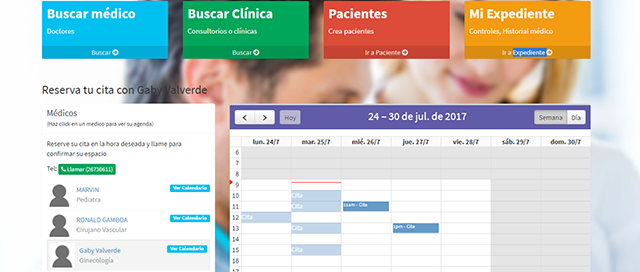
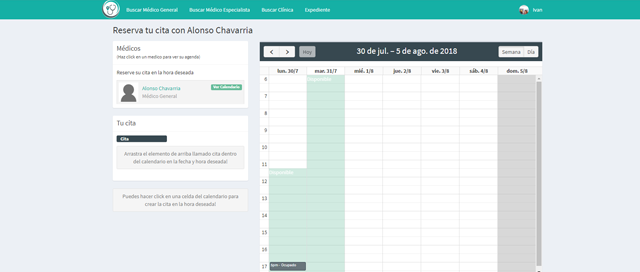
se cambio coolores y imagenes a nuevo estilo

diff --git a/wp-content/themes/gpsmedica/style.css b/wp-content/themes/gpsmedica/style.css
@@ -1,4 +1,4 @@
-article,aside,details,figcaption,figure,footer,header,hgroup,main,nav,section,summary{display:block}audio,canvas,video{display:inline-block}audio:not([controls]){display:none;height:0}[hidden]{display:none}html{font-size:100%;-ms-text-size-adjust:100%;-webkit-text-size-adjust:100%}button,html,input,select,textarea{font-family:sans-serif}body{margin:0}a:focus{outline:thin dotted}a:active,a:hover{outline:0}h1{font-size:2em;margin:.67em 0}h2{font-size:1.5em;margin:.83em 0}h3{font-size:1.17em;margin:1em 0}h4{font-size:1em;margin:1.33em 0}h5{font-size:.83em;margin:1.67em 0}h6{font-size:.67em;margin:2.33em 0}abbr[title]{border-bottom:1px dotted}b,strong{font-weight:700}blockquote{margin:1em 40px}dfn{font-style:italic}hr{-moz-box-sizing:content-box;box-sizing:content-box;height:0}mark{background:#ff0;color:#000}p,pre{margin:1em 0}code,kbd,pre,samp{font-family:monospace,serif;font-size:1em}pre{white-space:pre;white-space:pre-wrap;word-wrap:break-word}q{quotes:none}q:after,q:before{content:'';content:none}small{font-size:80%}sub,sup{font-size:75%;line-height:0;position:relative;vertical-align:baseline}sup{top:-.5em}sub{bottom:-.25em}dl,menu,ol,ul{margin:1em 0}dd{margin:0 0 0 40px}menu,ol,ul{padding:0 0 0 40px}nav ol,nav ul{list-style:none;list-style-image:none}img{border:0;-ms-interpolation-mode:bicubic}svg:not(:root){overflow:hidden}figure{margin:0}form{margin:0}fieldset{border:1px solid silver;margin:0 2px;padding:.35em .625em .75em}legend{border:0;padding:0;white-space:normal}button,input,select,textarea{font-size:100%;margin:0;vertical-align:baseline}button,input{line-height:normal}button,select{text-transform:none}button,html input[type=button],input[type=reset],input[type=submit]{-webkit-appearance:button;cursor:pointer}button[disabled],html input[disabled]{cursor:default}input[type=checkbox],input[type=radio]{box-sizing:border-box;padding:0}input[type=search]{-webkit-appearance:textfield;-moz-box-sizing:content-box;-webkit-box-sizing:content-box;box-sizing:content-box}input[type=search]::-webkit-search-cancel-button,input[type=search]::-webkit-search-decoration{-webkit-appearance:none}button::-moz-focus-inner,input::-moz-focus-inner{border:0;padding:0}textarea{overflow:auto;vertical-align:top}table{border-collapse:collapse;border-spacing:0}article,aside,details,figcaption,figure,footer,header,hgroup,main,nav,section,summary{display:block}audio,canvas,video{display:inline-block}audio:not([controls]){display:none;height:0}[hidden]{display:none}html{font-size:100%;-ms-text-size-adjust:100%;-webkit-text-size-adjust:100%}button,html,input,select,textarea{font-family:sans-serif}body{margin:0}a:focus{outline:thin dotted}a:active,a:hover{outline:0}h1{font-size:2em;margin:.67em 0}h2{font-size:1.5em;margin:.83em 0}h3{font-size:1.17em;margin:1em 0}h4{font-size:1em;margin:1.33em 0}h5{font-size:.83em;margin:1.67em 0}h6{font-size:.67em;margin:2.33em 0}abbr[title]{border-bottom:1px dotted}b,strong{font-weight:700}blockquote{margin:1em 40px}dfn{font-style:italic}hr{-moz-box-sizing:content-box;-webkit-box-sizing:content-box;-moz-box-sizing:content-box;box-sizing:content-box;height:0}mark{background:#ff0;color:#000}p,pre{margin:1em 0}code,kbd,pre,samp{font-family:monospace,serif;font-size:1em}pre{white-space:pre;white-space:pre-wrap;word-wrap:break-word}q{quotes:none}q:after,q:before{content:'';content:none}small{font-size:80%}sub,sup{font-size:75%;line-height:0;position:relative;vertical-align:baseline}sup{top:-.5em}sub{bottom:-.25em}dl,menu,ol,ul{margin:1em 0}dd{margin:0 0 0 40px}menu,ol,ul{padding:0 0 0 40px}nav ol,nav ul{list-style:none;list-style-image:none}img{border:0;-ms-interpolation-mode:bicubic}svg:not(:root){overflow:hidden}figure{margin:0}form{margin:0}fieldset{border:1px solid silver;margin:0 2px;padding:.35em .625em .75em}legend{border:0;padding:0;white-space:normal}button,input,select,textarea{font-size:100%;margin:0;vertical-align:baseline}button,input{line-height:normal}button,select{text-transform:none}button,html input[type=button],input[type=reset],input[type=submit]{-webkit-appearance:button;cursor:pointer}button[disabled],html input[disabled]{cursor:default}input[type=checkbox],input[type=radio]{-webkit-box-sizing:border-box;-moz-box-sizing:border-box;box-sizing:border-box;padding:0}input[type=search]{-webkit-appearance:textfield;-moz-box-sizing:content-box;-webkit-box-sizing:content-box;-webkit-box-sizing:content-box;-moz-box-sizing:content-box;box-sizing:content-box}input[type=search]::-webkit-search-cancel-button,input[type=search]::-webkit-search-decoration{-webkit-appearance:none}button::-moz-focus-inner,input::-moz-focus-inner{border:0;padding:0}textarea{overflow:auto;vertical-align:top}table{border-collapse:collapse;border-spacing:0}@font-face{font-family:av;src:url(fonts/av.eot?-pmmwod);src:url(fonts/av.eot?#iefix-pmmwod) format('embedded-opentype'),url(fonts/av.ttf?-pmmwod) format('truetype'),url(fonts/av.woff?-pmmwod) format('woff'),url(fonts/av.svg?-pmmwod#av) format('svg');font-weight:400;font-style:normal}[class*=" icon-"],[class^=icon-]{font-family:av;speak:none;font-style:normal;font-weight:400;font-variant:normal;text-transform:none;line-height:1;-webkit-font-smoothing:antialiased;-moz-osx-font-smoothing:grayscale}.icon-avotz:before{content:"\e600"}.icon-twitter:before{content:"\f099"}.icon-facebook:before{content:"\f09a"}.icon-facebook-f:before{content:"\f09a"}.icon-bars:before{content:"\f0c9"}.icon-navicon:before{content:"\f0c9"}.icon-reorder:before{content:"\f0c9"}.icon-menu:before{content:"\f0c9"}.icon-google-plus:before{content:"\f0d5"}.icon-angle-left:before{content:"\f104"}.icon-angle-right:before{content:"\f105"}.icon-angle-up:before{content:"\f106"}.icon-angle-down:before{content:"\f107"}.icon-youtube:before{content:"\f167"}.icon-instagram:before{content:"\f16d"}.icon-pinterest-p:before{content:"\f231"}*{-webkit-box-sizing:border-box;-moz-box-sizing:border-box;box-sizing:border-box}:after,:before{-webkit-box-sizing:border-box;-moz-box-sizing:border-box;box-sizing:border-box}body{font-family:Lato,serif;font-size:100%;line-height:30px;background:#fff;color:#000}ul{margin:0;padding:0}a{text-decoration:none;-webkit-transition:all .5s ease;-moz-transition:all .5s ease;-o-transition:all .5s ease;-ms-transition:all .5s ease;transition:all .5s ease;color:#3c8dbc}h1,h2,h3,h4,h5{margin-top:0;font-weight:900}h1{line-height:45px}img{max-width:100%;height:auto}input[type=email],input[type=number],input[type=text],select,textarea{width:100%;height:32px}textarea{height:90px}.select2-container--default .select2-selection--multiple,.select2-container--default .select2-selection--single{border-radius:0!important;min-height:36px!important}.select2-container{width:100%!important}.select2-container--default .select2-selection--multiple .select2-selection__choice{margin-top:1px!important;background-color:verde2!important;color:#fff}.txt-center{text-align:center}.hidden{display:none}.no-padding{padding-left:0!important;padding-right:0!important}.btn,.wpcf7-submit{padding:.5rem .8rem;display:inline-block;color:#fff;-webkit-transition:all .5s ease;-moz-transition:all .5s ease;-o-transition:all .5s ease;-ms-transition:all .5s ease;transition:all .5s ease;background-color:#3c8dbc}.btn:hover,.wpcf7-submit:hover{background-color:#f90;color:#fff}.wpcf7-submit{border:none;background-color:#92bf4f}.wpcf7-submit:hover{background-color:verde2;color:#fff}.inner{max-width:990px;margin:0 auto;position:relative;padding-left:2rem;padding-right:2rem}.header{position:relative;background-color:#3c8dbc;padding:0 20px;height:98px;width:100%;border-bottom:1px solid #d9d9d9;border-color:rgba(0,0,0,.09);z-index:999}.header-logo{display:inline-block;width:100px}.header-menu{display:none;position:absolute;top:97px;left:0;right:0;background-color:#3c8dbc;text-align:center}.header-menu li{display:block}.header-menu a{display:block;color:rgba(255,255,255,.9);padding:1rem;text-transform:uppercase}.header-menu #menu-item-10 a{border:2px solid #fff}.header-btn-menu{position:absolute;right:1rem;background-color:transparent;border:none;color:#fff;font-size:2rem;top:20px;outline:0}@media screen and (min-width:768px){.header-btn-menu{display:none}.header-menu{display:block!important;float:right;position:static;background-color:transparent;text-align:left;margin-top:1.5rem}.header-menu ul{display:-webkit-box;display:-moz-box;display:-webkit-flex;display:-ms-flexbox;display:box;display:flex;-webkit-box-lines:multiple;-moz-box-lines:multiple;-o-box-lines:multiple;-webkit-flex-wrap:wrap;-ms-flex-wrap:wrap;flex-wrap:wrap;-webkit-box-pack:justify;-moz-box-pack:justify;-o-box-pack:justify;-ms-flex-pack:justify;-webkit-justify-content:space-between;justify-content:space-between}.header-menu li{position:relative}.header-menu a{display:block;padding:.5rem .8rem}.header-menu a:hover{color:#fff}.header-menu .sub-menu{display:none;position:absolute;background-color:#0e395b}.header-menu .sub-menu li{border-bottom:1px solid #c3c3c3;width:100%}.header-menu .sub-menu a{display:block}}.banner{width:100%;height:35vh;position:relative;background-color:#fff}.banner-functions{display:-webkit-box;display:-moz-box;display:-webkit-flex;display:-ms-flexbox;display:box;display:flex;-webkit-box-lines:multiple;-moz-box-lines:multiple;-o-box-lines:multiple;-webkit-flex-wrap:wrap;-ms-flex-wrap:wrap;flex-wrap:wrap;-webkit-box-pack:distribute;-moz-box-pack:distribute;-o-box-pack:distribute;-ms-flex-pack:distribute;-webkit-justify-content:space-around;justify-content:space-around;position:absolute;z-index:22;bottom:0;left:0;right:0;display:none}.banner-functions-item{width:200px;height:170px;text-align:center;overflow:hidden}.banner-functions-item:focus{outline:0}.banner-functions-item:hover span{background-color:#f90}.banner-functions-item:hover .banner-functions-item-img{-webkit-transform:translate(0,0);-moz-transform:translate(0,0);-o-transform:translate(0,0);-ms-transform:translate(0,0);transform:translate(0,0)}.banner-functions-item-img{-webkit-background-size:cover;-moz-background-size:cover;background-size:cover;background-repeat:no-repeat;background-position:center center;height:140px;-webkit-transform:translate(0,125%);-moz-transform:translate(0,125%);-o-transform:translate(0,125%);-ms-transform:translate(0,125%);transform:translate(0,125%);-webkit-transition:all .5s ease;-moz-transition:all .5s ease;-o-transition:all .5s ease;-ms-transition:all .5s ease;transition:all .5s ease}.banner-functions-item span{display:block;background-color:#3c8dbc;color:#fff}.banner .item{-webkit-background-size:cover;-moz-background-size:cover;background-size:cover;background-repeat:no-repeat;background-position:center center;height:35vh;width:100%}.banner .item:before{content:'';background:rgba(0,0,0,.1);position:absolute;left:0;right:0;top:0;bottom:0;width:100%;height:100%}.banner .item a{position:absolute;top:0;bottom:0;right:0;left:0;display:block;width:100%;height:100%;z-index:22}.banner .item-info{position:absolute;padding:1rem;color:#fff;top:30%;left:50%;-webkit-transform:translate(-50%,-50%);-moz-transform:translate(-50%,-50%);-o-transform:translate(-50%,-50%);-ms-transform:translate(-50%,-50%);transform:translate(-50%,-50%);font-size:12px;text-align:center;width:100%}.banner .item-info h2{font-size:1.5rem;margin:24px 0;font-weight:900;text-transform:uppercase;line-height:1em;position:relative;text-shadow:1px 1px 2px rgba(0,0,0,.5)}.banner .item-info p{font-size:1rem;font-weight:500;font-style:italic;text-shadow:1px 1px 1px rgba(0,0,0,.5)}.banner img{display:block;width:100%}.banner .owl-dots{display:none;text-align:center;position:absolute;left:0;right:0;bottom:-40px;z-index:901}.banner .owl-dots .owl-dot{display:inline-block}.banner .owl-dots .owl-dot.active span{background-color:#3c8dbc}.banner .owl-dots .owl-dot span{width:10px;height:10px;margin:5px 7px;background:0 0;border:2px solid #3c8dbc;display:block;border-radius:30px}.banner .owl-next,.banner .owl-prev{display:none;position:absolute;top:50%;-webkit-transform:translate(0,-50%);-moz-transform:translate(0,-50%);-o-transform:translate(0,-50%);-ms-transform:translate(0,-50%);transform:translate(0,-50%);font-family:av!important;color:#3c8dbc;font-size:3rem;z-index:902}.banner .owl-prev{left:1rem}.banner .owl-prev:before{content:"\f104";opacity:1;-ms-filter:none;filter:none}.banner .owl-next{right:1rem}.banner .owl-next:before{content:"\f105";opacity:1;-ms-filter:none;filter:none}@media screen and (min-width:830px){.banner{height:75vh}.banner-functions{display:-webkit-box;display:-moz-box;display:-webkit-flex;display:-ms-flexbox;display:box;display:flex}.banner .item{height:75vh}.banner .item-info{display:block;top:30%;left:50%;padding-top:0;padding-left:0;width:70%;-webkit-transform:translate(-50%,-50%);-moz-transform:translate(-50%,-50%);-o-transform:translate(-50%,-50%);-ms-transform:translate(-50%,-50%);transform:translate(-50%,-50%);text-align:center;padding:1rem}.banner .item-info h2{font-size:5.5em;margin:25px 0}.banner .item-info p{font-size:1.5rem}.banner.banner-page{height:400px}.banner.banner-page .item{height:400px}.banner.banner-page .item-info{top:70%;left:auto;max-width:600px}.banner .owl-dots,.banner .owl-next,.banner .owl-prev{display:block}}@media screen and (min-width:1290px){.banner-functions-item{width:320px}}@media screen and (min-width:1400px){.banner{height:61vh}.banner .item{height:61vh}}.features{text-align:center;padding-bottom:4rem}.features h2{font-weight:400;text-transform:uppercase}.features-container{display:-webkit-box;display:-moz-box;display:-webkit-flex;display:-ms-flexbox;display:box;display:flex;-webkit-box-lines:multiple;-moz-box-lines:multiple;-o-box-lines:multiple;-webkit-flex-wrap:wrap;-ms-flex-wrap:wrap;flex-wrap:wrap;-webkit-box-pack:justify;-moz-box-pack:justify;-o-box-pack:justify;-ms-flex-pack:justify;-webkit-justify-content:space-between;justify-content:space-between;border-bottom:1px solid #c3c3c3;padding-bottom:3rem;padding-top:2rem}.features-item{width:100%;font-weight:300;margin-bottom:2rem}.features-item h3{font-weight:400;text-transform:uppercase;color:#f90}.features-item h3 a{color:#f90}@media screen and (min-width:768px){.features-item{width:32%}}.video{text-align:center;padding-top:3rem;padding-bottom:4rem}.video .vid-list{display:-webkit-box;display:-moz-box;display:-webkit-flex;display:-ms-flexbox;display:box;display:flex;-webkit-box-lines:multiple;-moz-box-lines:multiple;-o-box-lines:multiple;-webkit-flex-wrap:wrap;-ms-flex-wrap:wrap;flex-wrap:wrap;-webkit-box-pack:justify;-moz-box-pack:justify;-o-box-pack:justify;-ms-flex-pack:justify;-webkit-justify-content:space-between;justify-content:space-between;border-bottom:1px solid #c3c3c3;padding-bottom:4rem}.video .vid-list-item{width:45%;margin-bottom:1rem}.video .vid-list-item iframe{width:100%;height:150px}.video h2{font-weight:400;color:#f90;text-transform:uppercase;font-size:1.3rem}.video iframe{width:100%;height:250px}@media screen and (min-width:768px){.video iframe{height:500px}.video .vid-list-item{width:32%}}.getapp{padding-top:4rem;padding-bottom:0;font-weight:300}.getapp-container{display:-webkit-box;display:-moz-box;display:-webkit-flex;display:-ms-flexbox;display:box;display:flex;-webkit-box-lines:multiple;-moz-box-lines:multiple;-o-box-lines:multiple;-webkit-flex-wrap:wrap;-ms-flex-wrap:wrap;flex-wrap:wrap;-webkit-box-pack:justify;-moz-box-pack:justify;-o-box-pack:justify;-ms-flex-pack:justify;-webkit-justify-content:space-between;justify-content:space-between;border-bottom:1px solid #c3c3c3;padding-bottom:4rem}.getapp-container div{width:100%}.getapp-links a{display:inline-block;vertical-align:top;width:200px}@media screen and (min-width:768px){.getapp-container div{width:48%}}.contact{text-align:center;padding-top:4rem;padding-bottom:4rem}.social{text-align:center;padding-top:2rem;padding-bottom:2rem;background-color:#ccc}.social a{display:inline-block;font-size:1.2rem;color:#ccc;background-color:#000;padding:.5rem;border-radius:50%;line-height:1px;margin:0 .2rem}.social a:hover{background-color:#00d5d5;color:#fff}.social .facebook{padding:.5rem .7rem}.social .google{padding:.5rem .3rem}.social .youtube{padding:.5rem .5rem}.footer{background-color:#424242;text-align:center;padding-top:3rem;padding-bottom:4rem;color:#777}.footer-menu{padding-bottom:2rem}.footer-menu li{display:inline-block;vertical-align:top}.footer-menu a{color:#fff;padding:.5rem .8rem;text-transform:uppercase;font-size:13px}.content-area{margin:1rem 0}.entry-content ul li{margin-bottom:.5rem}
+article,aside,details,figcaption,figure,footer,header,hgroup,main,nav,section,summary{display:block}audio,canvas,video{display:inline-block}audio:not([controls]){display:none;height:0}[hidden]{display:none}html{font-size:100%;-ms-text-size-adjust:100%;-webkit-text-size-adjust:100%}button,html,input,select,textarea{font-family:sans-serif}body{margin:0}a:focus{outline:thin dotted}a:active,a:hover{outline:0}h1{font-size:2em;margin:.67em 0}h2{font-size:1.5em;margin:.83em 0}h3{font-size:1.17em;margin:1em 0}h4{font-size:1em;margin:1.33em 0}h5{font-size:.83em;margin:1.67em 0}h6{font-size:.67em;margin:2.33em 0}abbr[title]{border-bottom:1px dotted}b,strong{font-weight:700}blockquote{margin:1em 40px}dfn{font-style:italic}hr{-moz-box-sizing:content-box;box-sizing:content-box;height:0}mark{background:#ff0;color:#000}p,pre{margin:1em 0}code,kbd,pre,samp{font-family:monospace,serif;font-size:1em}pre{white-space:pre;white-space:pre-wrap;word-wrap:break-word}q{quotes:none}q:after,q:before{content:'';content:none}small{font-size:80%}sub,sup{font-size:75%;line-height:0;position:relative;vertical-align:baseline}sup{top:-.5em}sub{bottom:-.25em}dl,menu,ol,ul{margin:1em 0}dd{margin:0 0 0 40px}menu,ol,ul{padding:0 0 0 40px}nav ol,nav ul{list-style:none;list-style-image:none}img{border:0;-ms-interpolation-mode:bicubic}svg:not(:root){overflow:hidden}figure{margin:0}form{margin:0}fieldset{border:1px solid silver;margin:0 2px;padding:.35em .625em .75em}legend{border:0;padding:0;white-space:normal}button,input,select,textarea{font-size:100%;margin:0;vertical-align:baseline}button,input{line-height:normal}button,select{text-transform:none}button,html input[type=button],input[type=reset],input[type=submit]{-webkit-appearance:button;cursor:pointer}button[disabled],html input[disabled]{cursor:default}input[type=checkbox],input[type=radio]{box-sizing:border-box;padding:0}input[type=search]{-webkit-appearance:textfield;-moz-box-sizing:content-box;-webkit-box-sizing:content-box;box-sizing:content-box}input[type=search]::-webkit-search-cancel-button,input[type=search]::-webkit-search-decoration{-webkit-appearance:none}button::-moz-focus-inner,input::-moz-focus-inner{border:0;padding:0}textarea{overflow:auto;vertical-align:top}table{border-collapse:collapse;border-spacing:0}article,aside,details,figcaption,figure,footer,header,hgroup,main,nav,section,summary{display:block}audio,canvas,video{display:inline-block}audio:not([controls]){display:none;height:0}[hidden]{display:none}html{font-size:100%;-ms-text-size-adjust:100%;-webkit-text-size-adjust:100%}button,html,input,select,textarea{font-family:sans-serif}body{margin:0}a:focus{outline:thin dotted}a:active,a:hover{outline:0}h1{font-size:2em;margin:.67em 0}h2{font-size:1.5em;margin:.83em 0}h3{font-size:1.17em;margin:1em 0}h4{font-size:1em;margin:1.33em 0}h5{font-size:.83em;margin:1.67em 0}h6{font-size:.67em;margin:2.33em 0}abbr[title]{border-bottom:1px dotted}b,strong{font-weight:700}blockquote{margin:1em 40px}dfn{font-style:italic}hr{-moz-box-sizing:content-box;-webkit-box-sizing:content-box;-moz-box-sizing:content-box;box-sizing:content-box;height:0}mark{background:#ff0;color:#000}p,pre{margin:1em 0}code,kbd,pre,samp{font-family:monospace,serif;font-size:1em}pre{white-space:pre;white-space:pre-wrap;word-wrap:break-word}q{quotes:none}q:after,q:before{content:'';content:none}small{font-size:80%}sub,sup{font-size:75%;line-height:0;position:relative;vertical-align:baseline}sup{top:-.5em}sub{bottom:-.25em}dl,menu,ol,ul{margin:1em 0}dd{margin:0 0 0 40px}menu,ol,ul{padding:0 0 0 40px}nav ol,nav ul{list-style:none;list-style-image:none}img{border:0;-ms-interpolation-mode:bicubic}svg:not(:root){overflow:hidden}figure{margin:0}form{margin:0}fieldset{border:1px solid silver;margin:0 2px;padding:.35em .625em .75em}legend{border:0;padding:0;white-space:normal}button,input,select,textarea{font-size:100%;margin:0;vertical-align:baseline}button,input{line-height:normal}button,select{text-transform:none}button,html input[type=button],input[type=reset],input[type=submit]{-webkit-appearance:button;cursor:pointer}button[disabled],html input[disabled]{cursor:default}input[type=checkbox],input[type=radio]{-webkit-box-sizing:border-box;-moz-box-sizing:border-box;box-sizing:border-box;padding:0}input[type=search]{-webkit-appearance:textfield;-moz-box-sizing:content-box;-webkit-box-sizing:content-box;-webkit-box-sizing:content-box;-moz-box-sizing:content-box;box-sizing:content-box}input[type=search]::-webkit-search-cancel-button,input[type=search]::-webkit-search-decoration{-webkit-appearance:none}button::-moz-focus-inner,input::-moz-focus-inner{border:0;padding:0}textarea{overflow:auto;vertical-align:top}table{border-collapse:collapse;border-spacing:0}@font-face{font-family:av;src:url(fonts/av.eot?-pmmwod);src:url(fonts/av.eot?#iefix-pmmwod) format('embedded-opentype'),url(fonts/av.ttf?-pmmwod) format('truetype'),url(fonts/av.woff?-pmmwod) format('woff'),url(fonts/av.svg?-pmmwod#av) format('svg');font-weight:400;font-style:normal}[class*=" icon-"],[class^=icon-]{font-family:av;speak:none;font-style:normal;font-weight:400;font-variant:normal;text-transform:none;line-height:1;-webkit-font-smoothing:antialiased;-moz-osx-font-smoothing:grayscale}.icon-avotz:before{content:"\e600"}.icon-twitter:before{content:"\f099"}.icon-facebook:before{content:"\f09a"}.icon-facebook-f:before{content:"\f09a"}.icon-bars:before{content:"\f0c9"}.icon-navicon:before{content:"\f0c9"}.icon-reorder:before{content:"\f0c9"}.icon-menu:before{content:"\f0c9"}.icon-google-plus:before{content:"\f0d5"}.icon-angle-left:before{content:"\f104"}.icon-angle-right:before{content:"\f105"}.icon-angle-up:before{content:"\f106"}.icon-angle-down:before{content:"\f107"}.icon-youtube:before{content:"\f167"}.icon-instagram:before{content:"\f16d"}.icon-pinterest-p:before{content:"\f231"}*{-webkit-box-sizing:border-box;-moz-box-sizing:border-box;box-sizing:border-box}:after,:before{-webkit-box-sizing:border-box;-moz-box-sizing:border-box;box-sizing:border-box}body{font-family:Lato,serif;font-size:100%;line-height:30px;background:#fff;color:#000}ul{margin:0;padding:0}a{text-decoration:none;-webkit-transition:all .5s ease;-moz-transition:all .5s ease;-o-transition:all .5s ease;-ms-transition:all .5s ease;transition:all .5s ease;color:#3c8dbc}h1,h2,h3,h4,h5{margin-top:0;font-weight:900}h1{line-height:45px}img{max-width:100%;height:auto}input[type=email],input[type=number],input[type=text],select,textarea{width:100%;height:32px}textarea{height:90px}.select2-container--default .select2-selection--multiple,.select2-container--default .select2-selection--single{border-radius:0!important;min-height:36px!important}.select2-container{width:100%!important}.select2-container--default .select2-selection--multiple .select2-selection__choice{margin-top:1px!important;background-color:verde2!important;color:#fff}.txt-center{text-align:center}.hidden{display:none}.no-padding{padding-left:0!important;padding-right:0!important}.btn,.wpcf7-submit{padding:.5rem .8rem;display:inline-block;color:#fff;-webkit-transition:all .5s ease;-moz-transition:all .5s ease;-o-transition:all .5s ease;-ms-transition:all .5s ease;transition:all .5s ease;background-color:#13afa4}.btn:hover,.wpcf7-submit:hover{background-color:#66bb9a;color:#fff}.wpcf7-submit{border:none;background-color:#92bf4f}.wpcf7-submit:hover{background-color:verde2;color:#fff}.inner{max-width:990px;margin:0 auto;position:relative;padding-left:2rem;padding-right:2rem}.header{position:relative;background-color:#13afa4;padding:0 20px;height:98px;width:100%;border-bottom:1px solid #d9d9d9;border-color:rgba(0,0,0,.09);z-index:999}.header-logo{display:inline-block;width:80px}.header-menu{display:none;position:absolute;top:97px;left:0;right:0;background-color:#3c8dbc;text-align:center}.header-menu li{display:block}.header-menu a{display:block;color:rgba(255,255,255,.9);padding:1rem;text-transform:uppercase}.header-menu #menu-item-10 a{border:2px solid #f0ead2}.header-btn-menu{position:absolute;right:1rem;background-color:transparent;border:none;color:#fff;font-size:2rem;top:20px;outline:0}@media screen and (min-width:768px){.header-btn-menu{display:none}.header-menu{display:block!important;float:right;position:static;background-color:transparent;text-align:left;margin-top:1.5rem}.header-menu ul{display:-webkit-box;display:-moz-box;display:-webkit-flex;display:-ms-flexbox;display:box;display:flex;-webkit-box-lines:multiple;-moz-box-lines:multiple;-o-box-lines:multiple;-webkit-flex-wrap:wrap;-ms-flex-wrap:wrap;flex-wrap:wrap;-webkit-box-pack:justify;-moz-box-pack:justify;-o-box-pack:justify;-ms-flex-pack:justify;-webkit-justify-content:space-between;justify-content:space-between}.header-menu li{position:relative}.header-menu a{display:block;padding:.5rem .8rem}.header-menu a:hover{color:#fff}.header-menu .sub-menu{display:none;position:absolute;background-color:#66bb9a}.header-menu .sub-menu li{border-bottom:1px solid #f0ead2;width:100%}.header-menu .sub-menu a{display:block}}.banner{width:100%;height:35vh;position:relative;background-color:#fff}.banner-functions{display:-webkit-box;display:-moz-box;display:-webkit-flex;display:-ms-flexbox;display:box;display:flex;-webkit-box-lines:multiple;-moz-box-lines:multiple;-o-box-lines:multiple;-webkit-flex-wrap:wrap;-ms-flex-wrap:wrap;flex-wrap:wrap;-webkit-box-pack:distribute;-moz-box-pack:distribute;-o-box-pack:distribute;-ms-flex-pack:distribute;-webkit-justify-content:space-around;justify-content:space-around;position:absolute;z-index:22;bottom:0;left:0;right:0;display:none}.banner-functions-item{width:200px;height:170px;text-align:center;overflow:hidden}.banner-functions-item:focus{outline:0}.banner-functions-item:hover span{background-color:#f0ead2;color:#13afa4}.banner-functions-item:hover .banner-functions-item-img{-webkit-transform:translate(0,0);-moz-transform:translate(0,0);-o-transform:translate(0,0);-ms-transform:translate(0,0);transform:translate(0,0)}.banner-functions-item-img{-webkit-background-size:cover;-moz-background-size:cover;background-size:cover;background-repeat:no-repeat;background-position:center center;height:140px;-webkit-transform:translate(0,125%);-moz-transform:translate(0,125%);-o-transform:translate(0,125%);-ms-transform:translate(0,125%);transform:translate(0,125%);-webkit-transition:all .5s ease;-moz-transition:all .5s ease;-o-transition:all .5s ease;-ms-transition:all .5s ease;transition:all .5s ease}.banner-functions-item span{display:block;background-color:#66bb9a;color:#fff}.banner .item{-webkit-background-size:cover;-moz-background-size:cover;background-size:cover;background-repeat:no-repeat;background-position:center center;height:35vh;width:100%}.banner .item:before{content:'';background:rgba(0,0,0,.1);position:absolute;left:0;right:0;top:0;bottom:0;width:100%;height:100%}.banner .item a{position:absolute;top:0;bottom:0;right:0;left:0;display:block;width:100%;height:100%;z-index:22}.banner .item-info{position:absolute;padding:1rem;color:#fff;top:30%;left:50%;-webkit-transform:translate(-50%,-50%);-moz-transform:translate(-50%,-50%);-o-transform:translate(-50%,-50%);-ms-transform:translate(-50%,-50%);transform:translate(-50%,-50%);font-size:12px;text-align:center;width:100%}.banner .item-info h2{font-size:1.5rem;margin:24px 0;font-weight:900;text-transform:uppercase;line-height:1em;position:relative;text-shadow:1px 1px 2px rgba(0,0,0,.5)}.banner .item-info p{font-size:1rem;font-weight:500;font-style:italic;text-shadow:1px 1px 1px rgba(0,0,0,.5)}.banner img{display:block;width:100%}.banner .owl-dots{display:none;text-align:center;position:absolute;left:0;right:0;bottom:-40px;z-index:901}.banner .owl-dots .owl-dot{display:inline-block}.banner .owl-dots .owl-dot.active span{background-color:#66bb9a}.banner .owl-dots .owl-dot span{width:10px;height:10px;margin:5px 7px;background:0 0;border:2px solid #66bb9a;display:block;border-radius:30px}.banner .owl-next,.banner .owl-prev{display:none;position:absolute;top:50%;-webkit-transform:translate(0,-50%);-moz-transform:translate(0,-50%);-o-transform:translate(0,-50%);-ms-transform:translate(0,-50%);transform:translate(0,-50%);font-family:av!important;color:#fff;font-size:3rem;z-index:902}.banner .owl-prev{left:1rem}.banner .owl-prev:before{content:"\f104";opacity:1;-ms-filter:none;filter:none}.banner .owl-next{right:1rem}.banner .owl-next:before{content:"\f105";opacity:1;-ms-filter:none;filter:none}@media screen and (min-width:830px){.banner{height:75vh}.banner-functions{display:-webkit-box;display:-moz-box;display:-webkit-flex;display:-ms-flexbox;display:box;display:flex}.banner .item{height:75vh}.banner .item-info{display:block;top:30%;left:50%;padding-top:0;padding-left:0;width:70%;-webkit-transform:translate(-50%,-50%);-moz-transform:translate(-50%,-50%);-o-transform:translate(-50%,-50%);-ms-transform:translate(-50%,-50%);transform:translate(-50%,-50%);text-align:center;padding:1rem}.banner .item-info h2{font-size:5.5em;margin:25px 0}.banner .item-info p{font-size:1.5rem}.banner.banner-page{height:400px}.banner.banner-page .item{height:400px}.banner.banner-page .item-info{top:70%;left:auto;max-width:600px}.banner .owl-dots,.banner .owl-next,.banner .owl-prev{display:block}}@media screen and (min-width:1290px){.banner-functions-item{width:320px}}@media screen and (min-width:1400px){.banner{height:61vh}.banner .item{height:61vh}}.features{text-align:center;padding-bottom:4rem}.features h2{font-weight:400;text-transform:uppercase}.features-container{display:-webkit-box;display:-moz-box;display:-webkit-flex;display:-ms-flexbox;display:box;display:flex;-webkit-box-lines:multiple;-moz-box-lines:multiple;-o-box-lines:multiple;-webkit-flex-wrap:wrap;-ms-flex-wrap:wrap;flex-wrap:wrap;-webkit-box-pack:justify;-moz-box-pack:justify;-o-box-pack:justify;-ms-flex-pack:justify;-webkit-justify-content:space-between;justify-content:space-between;border-bottom:1px solid #c3c3c3;padding-bottom:3rem;padding-top:2rem}.features-item{width:100%;font-weight:300;margin-bottom:2rem}.features-item h3{font-weight:400;text-transform:uppercase;color:#13afa4}.features-item h3 a{color:#13afa4}@media screen and (min-width:768px){.features-item{width:32%}}.video{text-align:center;padding-top:3rem;padding-bottom:4rem}.video .vid-list{display:-webkit-box;display:-moz-box;display:-webkit-flex;display:-ms-flexbox;display:box;display:flex;-webkit-box-lines:multiple;-moz-box-lines:multiple;-o-box-lines:multiple;-webkit-flex-wrap:wrap;-ms-flex-wrap:wrap;flex-wrap:wrap;-webkit-box-pack:justify;-moz-box-pack:justify;-o-box-pack:justify;-ms-flex-pack:justify;-webkit-justify-content:space-between;justify-content:space-between;border-bottom:1px solid #c3c3c3;padding-bottom:4rem}.video .vid-list-item{width:45%;margin-bottom:1rem}.video .vid-list-item iframe{width:100%;height:150px}.video h2{font-weight:400;color:#13afa4;text-transform:uppercase;font-size:1.3rem}.video iframe{width:100%;height:250px}@media screen and (min-width:768px){.video iframe{height:500px}.video .vid-list-item{width:32%}}.getapp{padding-top:4rem;padding-bottom:0;font-weight:300}.getapp-container{display:-webkit-box;display:-moz-box;display:-webkit-flex;display:-ms-flexbox;display:box;display:flex;-webkit-box-lines:multiple;-moz-box-lines:multiple;-o-box-lines:multiple;-webkit-flex-wrap:wrap;-ms-flex-wrap:wrap;flex-wrap:wrap;-webkit-box-pack:justify;-moz-box-pack:justify;-o-box-pack:justify;-ms-flex-pack:justify;-webkit-justify-content:space-between;justify-content:space-between;border-bottom:1px solid #c3c3c3;padding-bottom:4rem}.getapp-container div{width:100%}.getapp-links a{display:inline-block;vertical-align:top;width:200px}@media screen and (min-width:768px){.getapp-container div{width:48%}}.contact{text-align:center;padding-top:4rem;padding-bottom:4rem}.social{text-align:center;padding-top:2rem;padding-bottom:2rem;background-color:#f0ead2}.social a{display:inline-block;font-size:1.2rem;color:#ccc;background-color:#000;padding:.5rem;border-radius:50%;line-height:1px;margin:0 .2rem}.social a:hover{background-color:#13afa4;color:#fff}.social .facebook{padding:.5rem .7rem}.social .google{padding:.5rem .3rem}.social .youtube{padding:.5rem .5rem}.footer{background-color:#66bb9a;text-align:center;padding-top:3rem;padding-bottom:4rem;color:#fff}.footer-menu{padding-bottom:2rem}.footer-menu li{display:inline-block;vertical-align:top}.footer-menu a{color:#fff;padding:.5rem .8rem;text-transform:uppercase;font-size:13px}.content-area{margin:1rem 0}.entry-content ul li{margin-bottom:.5rem}
 /*!
  *  Font Awesome 4.7.0 by @davegandy - http://fontawesome.io - @fontawesome
  *  License - http://fontawesome.io/license (Font: SIL OFL 1.1, CSS: MIT License)

diff --git a/wp-content/themes/gpsmedica/assets/css/main.css b/wp-content/themes/gpsmedica/assets/css/main.css
@@ -652,11 +652,11 @@ textarea {
   -o-transition: all 0.5s ease;
   -ms-transition: all 0.5s ease;
   transition: all 0.5s ease;
-  background-color: #3c8dbc;
+  background-color: #13afa4;
 }
 .btn:hover,
 .wpcf7-submit:hover {
-  background-color: #f90;
+  background-color: #66bb9a;
   color: #fff;
 }
 .wpcf7-submit {
@@ -676,7 +676,7 @@ textarea {
 }
 .header {
   position: relative;
-  background-color: #3c8dbc;
+  background-color: #13afa4;
   padding: 0 20px;
   height: 98px;
   width: 100%;
@@ -686,7 +686,7 @@ textarea {
 }
 .header-logo {
   display: inline-block;
-  width: 100px;
+  width: 80px;
 }
 .header-menu {
   display: none;
@@ -707,7 +707,7 @@ textarea {
   text-transform: uppercase;
 }
 .header-menu #menu-item-10 a {
-  border: 2px solid #fff;
+  border: 2px solid #f0ead2;
 }
 .header-btn-menu {
   position: absolute;
@@ -764,10 +764,10 @@ textarea {
   .header-menu .sub-menu {
     display: none;
     position: absolute;
-    background-color: #0e395b;
+    background-color: #66bb9a;
   }
   .header-menu .sub-menu li {
-    border-bottom: 1px solid #c3c3c3;
+    border-bottom: 1px solid #f0ead2;
     width: 100%;
   }
   .header-menu .sub-menu a {
@@ -816,7 +816,8 @@ textarea {
   outline: 0;
 }
 .banner-functions-item:hover span {
-  background-color: #f90;
+  background-color: #f0ead2;
+  color: #13afa4;
 }
 .banner-functions-item:hover .banner-functions-item-img {
   -webkit-transform: translate(0, 0%);
@@ -845,7 +846,7 @@ textarea {
 }
 .banner-functions-item span {
   display: block;
-  background-color: #3c8dbc;
+  background-color: #66bb9a;
   color: #fff;
 }
 .banner .item {
@@ -926,14 +927,14 @@ textarea {
   display: inline-block;
 }
 .banner .owl-dots .owl-dot.active span {
-  background-color: #3c8dbc;
+  background-color: #66bb9a;
 }
 .banner .owl-dots .owl-dot span {
   width: 10px;
   height: 10px;
   margin: 5px 7px;
   background: transparent;
-  border: 2px solid #3c8dbc;
+  border: 2px solid #66bb9a;
   display: block;
   border-radius: 30px;
 }
@@ -948,7 +949,7 @@ textarea {
   -ms-transform: translate(0, -50%);
   transform: translate(0, -50%);
   font-family: 'av' !important;
-  color: #3c8dbc;
+  color: #fff;
   font-size: 3rem;
   z-index: 902;
 }
@@ -1076,10 +1077,10 @@ textarea {
 .features-item h3 {
   font-weight: 400;
   text-transform: uppercase;
-  color: #f90;
+  color: #13afa4;
 }
 .features-item h3 a {
-  color: #f90;
+  color: #13afa4;
 }
 @media screen and (min-width: 768px) {
   .features-item {
@@ -1123,7 +1124,7 @@ textarea {
 }
 .video h2 {
   font-weight: 400;
-  color: #f90;
+  color: #13afa4;
   text-transform: uppercase;
   font-size: 1.3rem;
 }
@@ -1188,7 +1189,7 @@ textarea {
   text-align: center;
   padding-top: 2rem;
   padding-bottom: 2rem;
-  background-color: #ccc;
+  background-color: #f0ead2;
 }
 .social a {
   display: inline-block;
@@ -1201,7 +1202,7 @@ textarea {
   margin: 0 0.2rem;
 }
 .social a:hover {
-  background-color: #00d5d5;
+  background-color: #13afa4;
   color: #fff;
 }
 .social .facebook {
@@ -1214,11 +1215,11 @@ textarea {
   padding: 0.5rem 0.5rem;
 }
 .footer {
-  background-color: #424242;
+  background-color: #66bb9a;
   text-align: center;
   padding-top: 3rem;
   padding-bottom: 4rem;
-  color: #777;
+  color: #fff;
 }
 .footer-menu {
   padding-bottom: 2rem;

diff --git a/wp-content/themes/gpsmedica/Gulpfile.js b/wp-content/themes/gpsmedica/Gulpfile.js
@@ -14,7 +14,7 @@ var gulp        = require('gulp'),
           /*server: {
             baseDir: "./"
           }*/
-          proxy: "gpsmedicasite.dev"
+          proxy: "gpsmedicasite.test"
       });
       
   });

diff --git a/wp-content/themes/gpsmedica/footer.php b/wp-content/themes/gpsmedica/footer.php
@@ -28,7 +28,7 @@
 		          	 <p>Guanacaste, CR   |   info@gpsmedica.com</p>
 		          </div>
 		          <div class="copy">
-		          	<span>© Copyright 2017 GPS Medica.</span>
+		          	<span>Copyright ©2018 GPS Médica.</span>
 		          </div>
 			</div>
 		</div>
